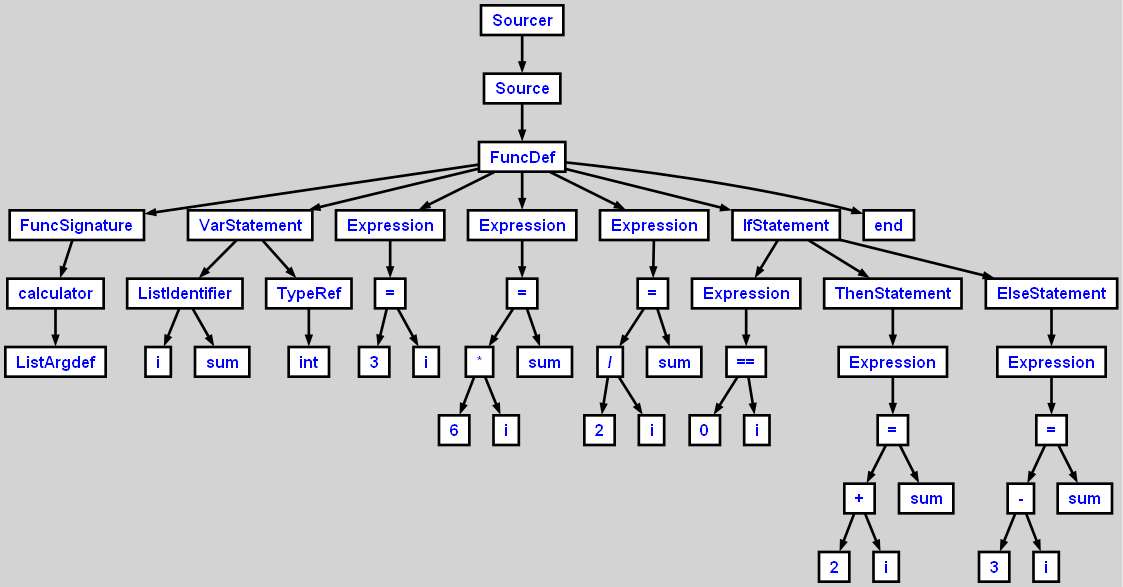
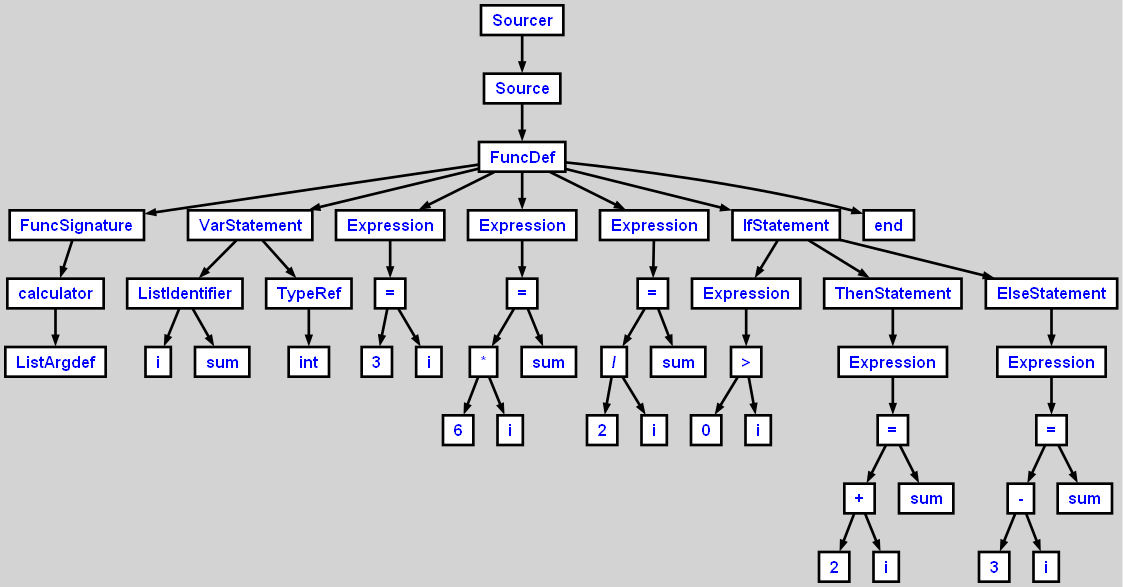
all the boolean expr

Changed region(s): [[0.3117, 0.5213, 0.6857, 0.7666]]

diff --git a/asm.c b/asm.c
@@ -238,11 +238,41 @@ int translateOT(OTNode* tree, char * fileName) {
 				translateOT(tree->operands[i], fileName);
 			}
 			if (strcmp(tree->value.operator, "<") == 0) {
+				wide_sub();
+				pop();// because sub pushes the type first
+				char* label1 = labelName();
+				char* label2 = labelName();
+				jlt(label1);
+				push("0"); //false branch
+				put_comment("false branch");
+				jump(label2);
+				put_label(label1)
+					push("1");//true branch
+				put_comment("true branch");
+
+				put_label(label2)
+					free(label1);
+				free(label2);
 				printf("<");
 				
 				break;
 			}
 			if (strcmp(tree->value.operator, ">") == 0) {
+				wide_sub();
+				pop();// because sub pushes the type first
+				char* label1 = labelName();
+				char* label2 = labelName();
+				jgt(label1);
+				push("0"); //false branch
+				put_comment("false branch");
+				jump(label2);
+				put_label(label1)
+					push("1");//true branch
+				put_comment("true branch");
+
+				put_label(label2)
+					free(label1);
+				free(label2);
 				printf(">");
 				
 			}
@@ -252,9 +282,39 @@ int translateOT(OTNode* tree, char * fileName) {
 				printf("=");
 			}
 			if (strcmp(tree->value.operator, "<=") == 0) {
+				wide_sub();
+				pop();// because sub pushes the type first
+				char* label1 = labelName();
+				char* label2 = labelName();
+				jle(label1);
+				push("0"); //false branch
+				put_comment("false branch");
+				jump(label2);
+				put_label(label1)
+					push("1");//true branch
+				put_comment("true branch");
+
+				put_label(label2)
+					free(label1);
+				free(label2);
 				printf("<=");
 			}
 			if (strcmp(tree->value.operator, ">=") == 0) {
+				wide_sub();
+				pop();// because sub pushes the type first
+				char* label1 = labelName();
+				char* label2 = labelName();
+				jge(label1);
+				push("0"); //false branch
+				put_comment("false branch");
+				jump(label2);
+				put_label(label1)
+					push("1");//true branch
+				put_comment("true branch");
+
+				put_label(label2)
+					free(label1);
+				free(label2);
 				printf(">=");
 			}
 			if (strcmp(tree->value.operator, "==") == 0) {
